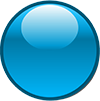
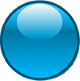
added glass buttons

diff --git a/TowerGameJS-Phase4/styles.css b/TowerGameJS-Phase4/styles.css
@@ -33,12 +33,10 @@ body {
 }
 
 #fastForward:hover {
-  background-color: #6666ff;
+  background-color: #ffffff;
+  background-image: url("resources/images/bBtn 2 small.png");
 }
 
-#pauseButton:hover {
-  background-color: #6666ff;
-}
 
 .loader {
   margin: auto;
@@ -80,22 +78,25 @@ body {
 }
 
 #pauseButton {
-  background-color: #999999;
+  background-color: white;
+  background-image: url("resources/images/bBtn 1 small.png");
 }
 
 #pauseButton:hover {
-  background-color: #6666ff;
+  background-color: white;
+  background-image: url("resources/images/bBtn 2 small.png");
 }
 
 .infoTileDiv {
   background-color: white;
+  background-image: url("resources/images/bBtn 1 small.png");
   width: 80px;
   height: 80px;
   border-radius: 50%;
   float: left;
   margin-left: 4%;
   margin-top: 10px;
-  padding-top: 15px;
+  /*padding-top: 15px;*/
   font-family: Garamond, serif;
   font-size: 12pt;
 }
@@ -105,8 +106,8 @@ body {
   background-image: url("wframe.png");
   width: 80px;
   height: 80px;
-  margin-top: 38px;
-  margin-left: 10px;
+ /* margin-top: 38px;
+  margin-left: 10px;*/
   float: left;
   font-family: Arial, Helvetica, sans-serif;
   font-size: 14pt;

diff --git a/index.html b/index.html
@@ -39,7 +39,7 @@
       <div class="infoTileDiv">Health</div>
       <div class="infoTileDiv">Cost</div>
       <button class="infoTileDiv" id="pauseButton">Pause</button>
-      <div class="infoTileDiv" id="fastForward">Start</div>
+      <button class="infoTileDiv" id="fastForward">Start</button>
     </div>
     <div id="canDiv"></div>
     <div id="menuDiv"></div>
